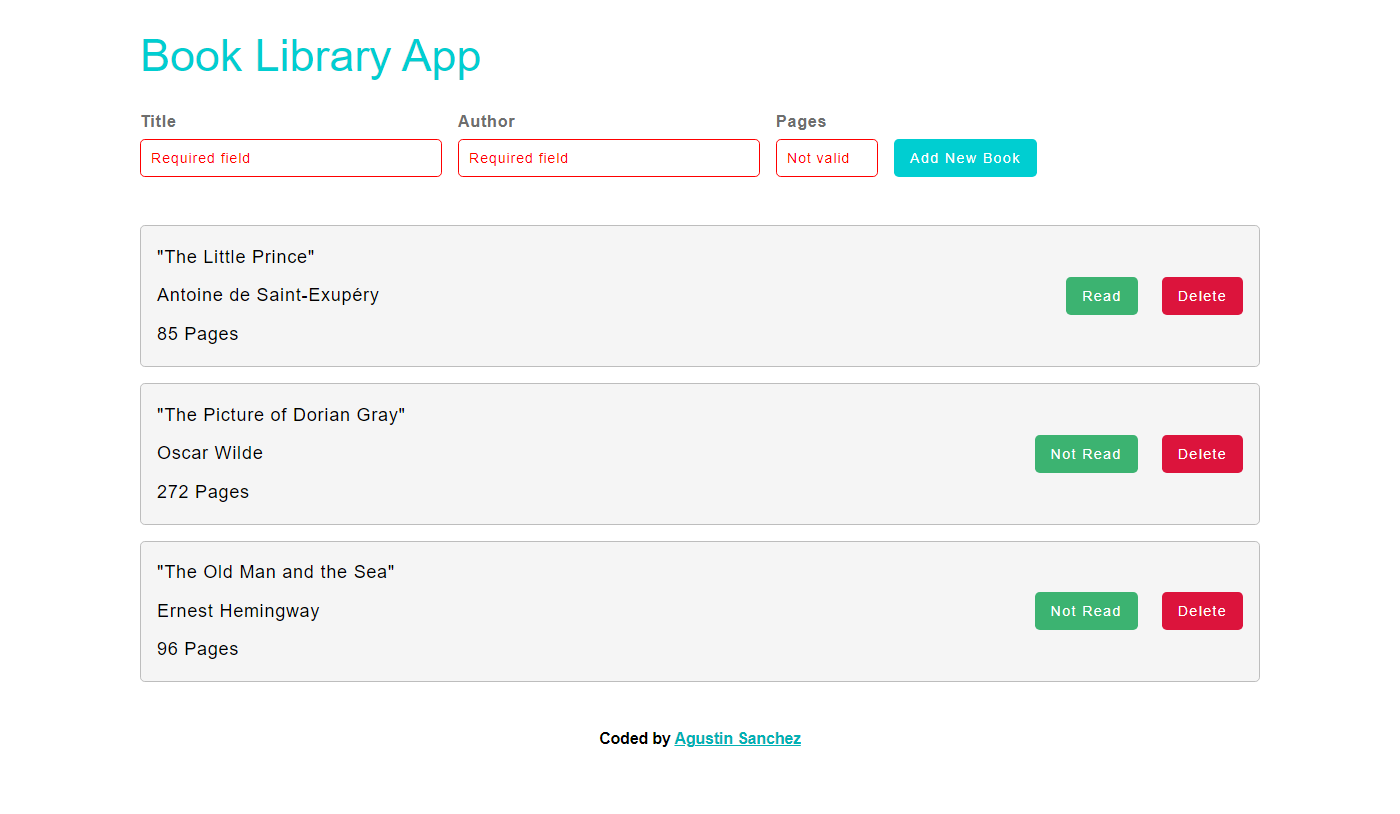
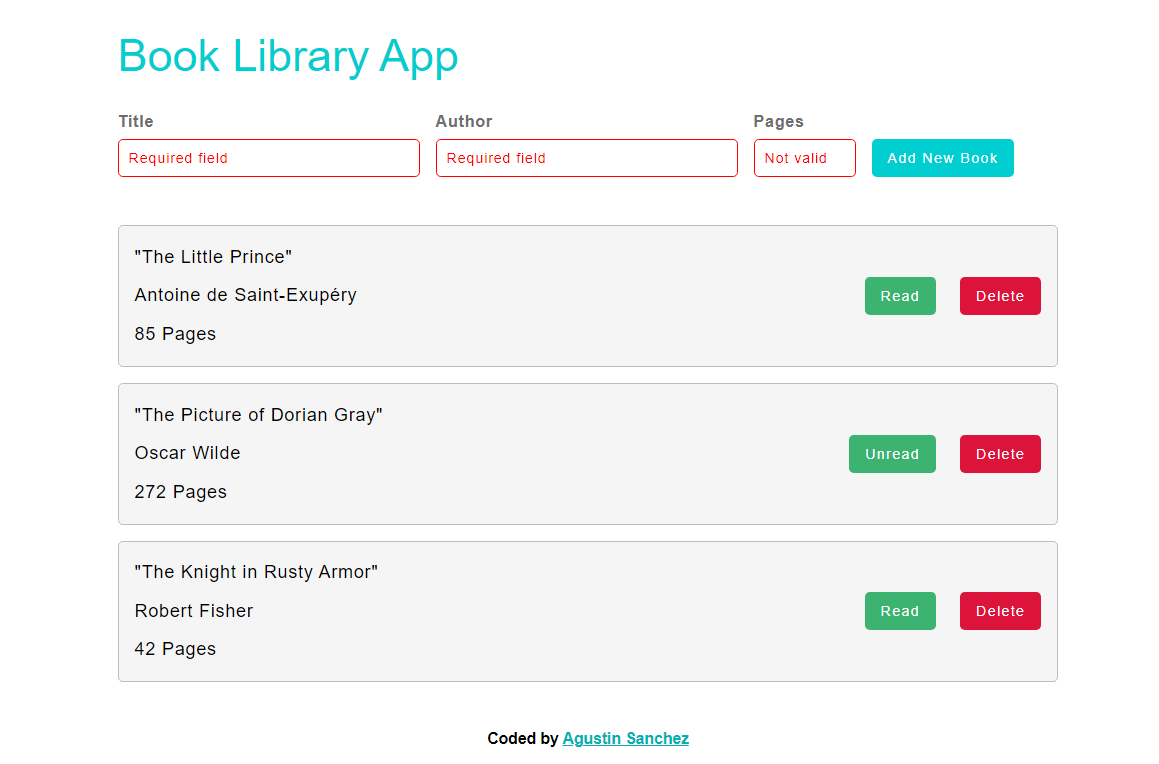
Change text status button, update screenshots

diff --git a/src/script.js b/src/script.js
@@ -13,7 +13,7 @@ class Book {
     this.status = status;
     this.textButtonStatus = status
       ? (this.textButtonStatus = "Read")
-      : (this.textButtonStatus = "Not Read");
+      : (this.textButtonStatus = "Unread");
   }
 }
 
@@ -44,7 +44,7 @@ function changeButtonStatus(book) {
 
   if (bookLibrary[elementId].status) {
     bookLibrary[elementId].status = false;
-    bookLibrary[elementId].textButtonStatus = "Not Read";
+    bookLibrary[elementId].textButtonStatus = "Unread";
   } else {
     bookLibrary[elementId].status = true;
     bookLibrary[elementId].textButtonStatus = "Read";
